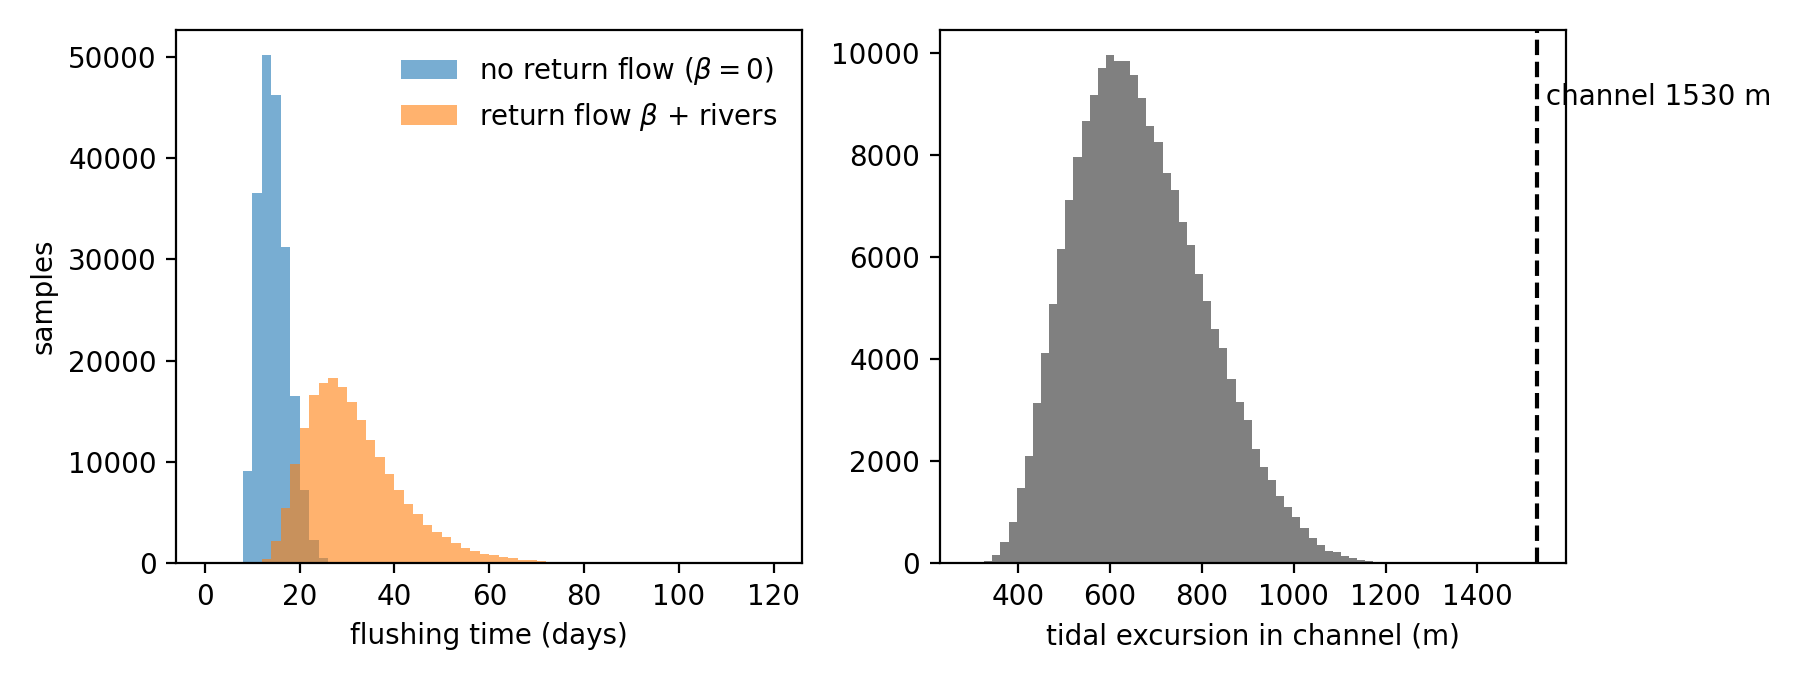
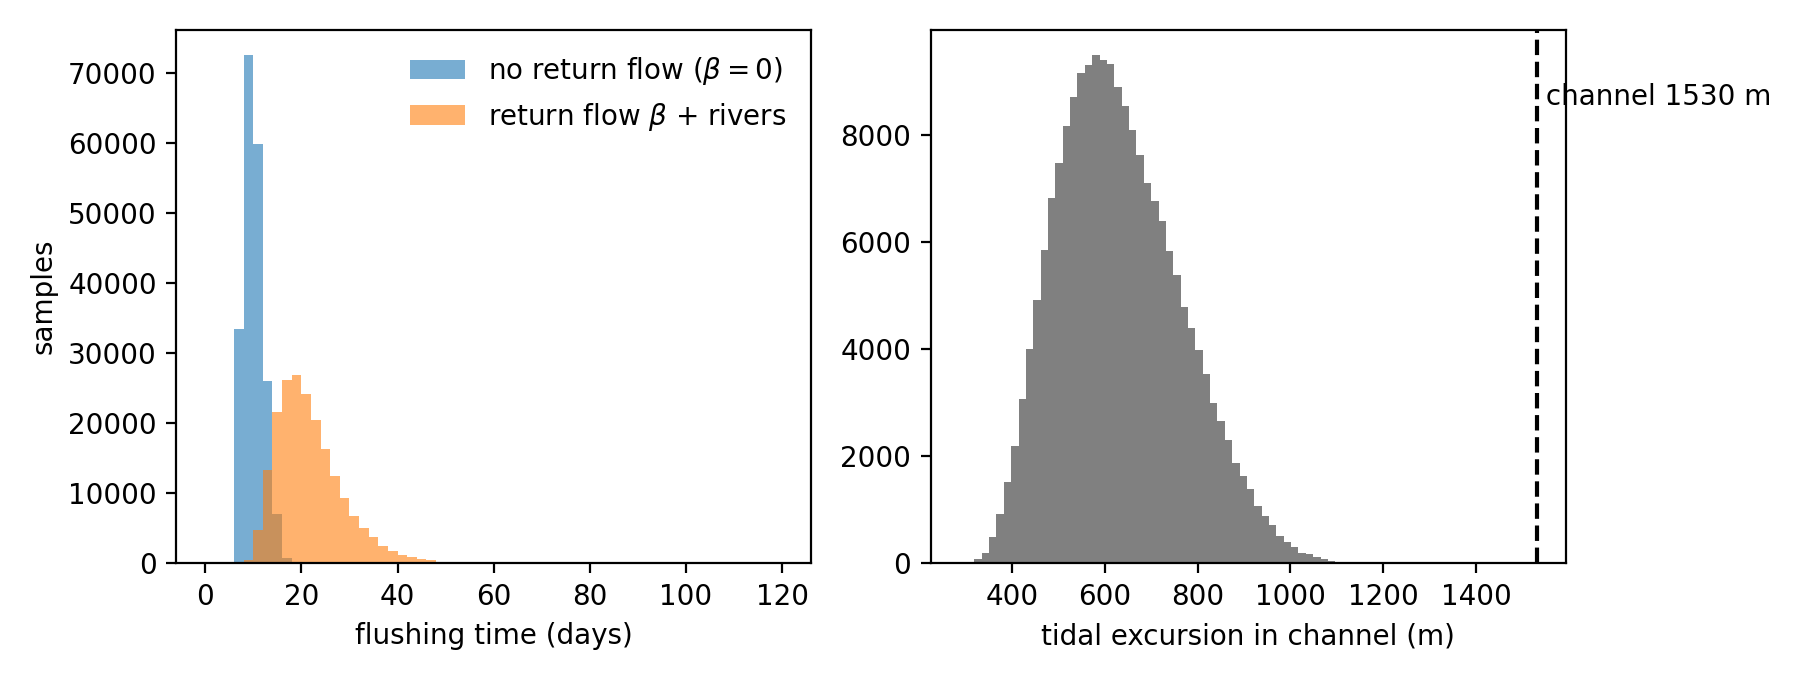
Batimetria del conjunto (estado de dragado + campo aleatorio sigma 0,9 m L 150 m del variograma 1887-1879); prisma de marea con el volumen de las cartas (renovacion 23 d)
Claude-Session: https://claude.ai/code/session_011ZQy6j6faxb4dHyc5rKgZH

diff --git a/scripts/batimetria/08_batimetria_conjunto.py b/scripts/batimetria/08_batimetria_conjunto.py
@@ -1,0 +1,92 @@
+"""Batimetria de un miembro del conjunto a partir de una superficie de carta (salida de 07).
+Dimensiones de incertidumbre (todas documentadas en docs/00_estado_y_plan.md, sec. 19):
+  carta    '1879' | '1887'            superficie base
+  alfa     0..1                       estado de dragado: 0 = carta historica; 1 = zona navegable a D_NAV
+                                      y canal de entrada a D_CANAL (calados de practicos 2018)
+  sigma, L m                          campo aleatorio exponencial (estimado del variograma 1887-1879)
+  datum    m                          desplazamiento del nivel de la carta (bajamar -> nivel medio)
+  semilla                             semilla del campo aleatorio
+Uso: python3 08_batimetria_conjunto.py <dir_superficies> <salida_dir>   (figura + estadisticas de volumen)"""
+import sys, os, json
+import numpy as np
+from scipy.io import netcdf_file
+from scipy import ndimage
+
+D_CANAL, ANCHO_CANAL, LARGO_CANAL, RUMBO_CANAL = 12.8, 220.0, 1530.0, 124.0   # practicos 2018
+CENTRO_CANAL = (361646.0, 2560188.0)  # centroide de las celdas > 11 m del canal (carta 1887), ver 08
+D_NAV, H_NAV = 11.0, 5.0              # calado de los canales de acceso (9,75-11,58 m); umbral de agua navegable historica
+SIGMA, L = 0.9, 150.0                 # m; variograma de la diferencia 1887-1879 (sigma_carta = sqrt(meseta/2))
+PROF_MIN = 0.3
+DEF = dict(carta='1887', alfa=0.0, sigma=SIGMA, L=L, datum=0.0, semilla=0)
+
+def lee(f, v):
+    d = netcdf_file(f, 'r', mmap=False)
+    z = d.variables[v][:].astype(float); z[z == -9999] = np.nan
+    return d.variables['x'][:].copy(), d.variables['y'][:].copy(), z
+
+def bahia(X, Y, h):
+    return np.isfinite(h) & (X > 361000) & (Y < 2560950)
+
+def poligono_canal(X, Y):
+    t = np.radians(RUMBO_CANAL); u = np.array([np.sin(t), np.cos(t)]); n = np.array([u[1], -u[0]])
+    dx, dy = X - CENTRO_CANAL[0], Y - CENTRO_CANAL[1]
+    return (np.abs(dx * u[0] + dy * u[1]) <= LARGO_CANAL / 2) & (np.abs(dx * n[0] + dy * n[1]) <= ANCHO_CANAL / 2)
+
+def campo_aleatorio(shape, dx, sigma, L, semilla):
+    """Campo gaussiano de covarianza exponencial (espectral, con relleno para evitar periodicidad)."""
+    ny, nx = 2 * shape[0], 2 * shape[1]
+    kx = np.fft.fftfreq(nx, dx) * 2 * np.pi; ky = np.fft.fftfreq(ny, dx) * 2 * np.pi
+    K2 = kx[None, :] ** 2 + ky[:, None] ** 2
+    amp = (1 + K2 * L ** 2) ** -0.75          # sqrt de S(k) ~ (1 + k^2 L^2)^(-3/2) en 2D
+    w = np.random.default_rng(semilla).standard_normal((ny, nx))
+    f = np.real(np.fft.ifft2(np.fft.fft2(w) * amp))[:shape[0], :shape[1]]
+    return sigma * f / f.std()
+
+def miembro(dir_sup, **p):
+    p = {**DEF, **p}
+    x, y, h = lee(f"{dir_sup}/batimetria_{p['carta']}.nc", 'profundidad')
+    _, _, w = lee(f"{dir_sup}/batimetria_{p['carta']}.nc", 'peso_carta')
+    X, Y = np.meshgrid(x, y); agua = np.isfinite(h); b = bahia(X, Y, h)
+    canal = poligono_canal(X, Y) & agua
+    lab, _ = ndimage.label(b & (h >= H_NAV) | canal)          # agua navegable conectada al canal
+    nav = np.isin(lab, np.unique(lab[canal & (lab > 0)])) & (lab > 0)
+    obj = np.where(canal, D_CANAL, np.where(nav, D_NAV, 0.0))
+    h = h + p['alfa'] * np.maximum(0, obj - h)
+    eps = campo_aleatorio(h.shape, x[1] - x[0], p['sigma'], p['L'], p['semilla']) if p['sigma'] > 0 else 0
+    fijo = (p['alfa'] > 0) & canal                              # el calado garantizado no se perturba
+    h = h + np.where(fijo, 0, eps * np.nan_to_num(w) * np.clip(np.nan_to_num(h) / 2, 0, 1)) + p['datum']
+    return x, y, np.where(agua, np.maximum(h, PROF_MIN), np.nan), dict(nav=nav, canal=canal, bahia=b)
+
+def volumen(X, Y, h, b):
+    return np.nansum(h[b]) * (X[0, 1] - X[0, 0]) ** 2 / 1e6
+
+if __name__ == '__main__':
+    dsup, sal = sys.argv[1:3]; os.makedirs(sal, exist_ok=True)
+    import matplotlib; matplotlib.use('Agg'); import matplotlib.pyplot as plt
+    x, y, h0, m = miembro(dsup, sigma=0); X, Y = np.meshgrid(x, y)
+    assert abs(m['canal'].sum() * 400 - LARGO_CANAL * ANCHO_CANAL) / (LARGO_CANAL * ANCHO_CANAL) < 0.15, 'poligono del canal'
+    res = {}
+    for carta in ('1879', '1887'):
+        for alfa in (0.0, 0.5, 1.0):
+            v = [volumen(X, Y, miembro(dsup, carta=carta, alfa=alfa, semilla=s)[2], m['bahia']) for s in range(30)]
+            v0 = volumen(X, Y, miembro(dsup, carta=carta, alfa=alfa, sigma=0)[2], m['bahia'])
+            res[f'{carta}_alfa{alfa}'] = dict(vol_sin_ruido_hm3=round(v0, 1), vol_media_hm3=round(float(np.mean(v)), 1),
+                                              vol_p5=round(float(np.percentile(v, 5)), 1), vol_p95=round(float(np.percentile(v, 95)), 1),
+                                              prof_media_m=round(v0 * 1e6 / (m['bahia'].sum() * 400), 2))
+            print(carta, alfa, res[f'{carta}_alfa{alfa}'])
+    json.dump(dict(parametros=dict(D_CANAL=D_CANAL, ANCHO_CANAL=ANCHO_CANAL, RUMBO_CANAL=RUMBO_CANAL, D_NAV=D_NAV, H_NAV=H_NAV,
+                                   SIGMA=SIGMA, L=L), volumenes=res, area_bahia_km2=round(m['bahia'].sum() * 400 / 1e6, 2)),
+              open(f'{sal}/volumenes_conjunto.json', 'w'), indent=1)
+    casos = [('1887, histórica (alfa=0)', dict(sigma=0)), ('1887, dragada (alfa=1)', dict(alfa=1, sigma=0)),
+             ('1887, alfa=0.5 + campo aleatorio (semilla 1)', dict(alfa=0.5, semilla=1))]
+    fig, ax = plt.subplots(1, 4, figsize=(26, 6.5))
+    for a, (t, kw) in zip(ax, casos):
+        im = a.imshow(miembro(dsup, **kw)[2], origin='lower', extent=(x[0], x[-1], y[0], y[-1]), cmap='viridis_r', vmin=0, vmax=15)
+        a.set_title(t); plt.colorbar(im, ax=a, shrink=0.7)
+    e = campo_aleatorio(h0.shape, 20.0, SIGMA, L, 1)
+    im = ax[3].imshow(np.where(m['bahia'], e, np.nan), origin='lower', extent=(x[0], x[-1], y[0], y[-1]), cmap='RdBu', vmin=-2.5, vmax=2.5)
+    ax[3].set_title(f'campo aleatorio sigma={SIGMA} m, L={L:.0f} m'); plt.colorbar(im, ax=ax[3], shrink=0.7)
+    for a in ax:
+        a.contour(X, Y, m['canal'].astype(float), [0.5], colors='r', linewidths=0.8)
+        a.set_xlim(360500, 365500); a.set_ylim(2556300, 2561300); a.set_aspect('equal')
+    fig.tight_layout(); fig.savefig(f'{sal}/batimetria_conjunto.png', dpi=100)

diff --git a/scripts/prisma_marea.py b/scripts/prisma_marea.py
@@ -23,10 +23,13 @@ L_CANAL = 1530.0               # m, longitud del canal de entrada (practicos, Pu
 # Entradas: (caso central, minimo, maximo) y de donde salen
 # ---------------------------------------------------------------------------
 ENTRADAS = {
-    # area de la lamina de agua. 5.2 km2 (fuentes divulgativas). +-10 % hasta digitalizar la carta
-    "A_km2":   (5.2, 4.7, 5.7),
-    # profundidad media. 9 m (fuentes divulgativas; 47 hm3 / 5.2 km2 = 9.0 m, coherente)
-    "h_m":     (9.0, 7.0, 11.0),
+    # area de la lamina de agua: 4.91 km2 con la costa actual de OSM (bahia + canal; 07_superficies.py).
+    # Antes (hasta 13-oct-2026): 5.2 km2 (4.7-5.7) de fuentes divulgativas.
+    "A_km2":   (4.91, 4.7, 5.2),
+    # profundidad media: 5.2 m (carta 1887, sin dragado) a 7.3 m (1879 + dragado a calados de practicos);
+    # moda 6.2 m = estado de dragado intermedio (08_batimetria_conjunto.py, volumenes_conjunto.json).
+    # Antes: 9 m (7-11) de fuentes divulgativas (47 hm3), que las cartas no sostienen (ver docs, sec. 19).
+    "h_m":     (6.2, 5.2, 7.3),
     # rango mareal. Practicos: pleamar superior media 0.4 m, bajamar inferior media 0.1 m
     # -> rango diurno mayor ~0.3 m. Predicciones publicas: 0.3-0.45 m en sicigias.
     "R_m":     (0.30, 0.20, 0.50),

diff --git a/docs/00_estado_y_plan.md b/docs/00_estado_y_plan.md
@@ -513,3 +513,10 @@ Descargado (`datos/batimetria/fuentes/descargas.tsv` con URL, fecha y sha256):
 - `scripts/batimetria/07_superficies.py` (+ `utm.py`, proyección UTM 17N sin dependencias, con autotest): rejilla UTM 17N de 20 m (E 354–368 km, N 2554–2566 km), interpolación lineal de los sondeos + costa a profundidad 0 (triángulos de > 500 m descartados), fusión con GEBCO 2026 a 150–600 m del sondeo más cercano, profundidad mínima 0,3 m. Salidas en `datos/batimetria/superficies/` (NetCDF, fuera de git; se regeneran en segundos) y `docs/figuras/superficies_1879_1887.png`.
 - **Números (bahía = agua al S de N 2 560 950 y al E de E 361 000, incluye el canal):** área 4,91 km²; profundidad media **5,6 m (1879) y 5,2 m (1887)**; volumen **27,5 y 25,7 hm³**. Diferencia 1887 − 1879 celda a celda donde ambas tienen sondeos: media −0,38 m, desviación 1,31 m (p10 −1,7, p90 +0,9).
 - **Ojo — discrepancia con el control analítico:** `prisma_marea.py` usa 9 m de profundidad media y ~47 hm³ (fuentes divulgativas, bahía actual). Las cartas del siglo XIX dan casi la mitad del volumen. La diferencia es plausible (dragados del siglo XX: los prácticos garantizan 9,75–11,58 m en los canales de acceso a Guasabacoa, Atarés, refinería y dique seco, donde 1879 marca 5–9 m), pero el volumen entra directo en el tiempo de renovación. Propuesta: tratar el **estado de dragado** como dimensión del conjunto (de la batimetría histórica a una versión "actual" con canales de acceso y muelles a sus calados de prácticos) y recalcular el prisma con el volumen de las superficies.
+
+**Actualización 13 oct (noche) — batimetría del conjunto y prisma recalculado.**
+- **Canal de entrada comprobado con la costa OSM:** ancho de agua 250–400 m a lo largo de ~1,6 km (prácticos: 220–330 m, 1530 m). El eje de las celdas > 11 m tiene rumbo 131° (prácticos: 124°); se usa el de prácticos por el centroide del canal (361 646 E, 2 560 188 N). En las cartas, la parte > 12 m solo tiene 40–160 m de ancho.
+- **Variograma de la diferencia 1887−1879** (12 134 celdas con sondeos de ambas): exponencial con meseta 1,08 m², alcance L = 149 m, pepita 0,54 m² → **σ_carta = √((meseta+pepita)/2) = 0,9 m, L ≈ 150 m**. Son los parámetros del campo aleatorio, estimados de los datos y no supuestos.
+- `scripts/batimetria/08_batimetria_conjunto.py`: genera la batimetría de cada miembro con (carta 1879/1887, α = estado de dragado 0–1, σ, L, datum, semilla). α = 1: canal de entrada ≥ 12,8 m (220 m × 1530 m, rumbo 124°) y toda el agua navegable histórica (≥ 5 m, conectada al canal) a 11 m (canales de acceso 9,75–11,58 m según prácticos). El campo aleatorio no toca el canal garantizado y se atenúa hacia la orilla. Figura: `docs/figuras/batimetria_conjunto.png`; volúmenes: `datos/batimetria/superficies/volumenes_conjunto.json`.
+- **Volumen de la bahía (hm³):** 1879: 27,5 (α=0) / 31,7 (α=0,5) / 35,8 (α=1); 1887: 25,7 / 29,6 / 33,5. El campo aleatorio solo mueve ±1 hm³ (p5–p95) porque se promedia. **Ni dragando toda la zona navegable a 11 m se llega a los 47 hm³ divulgativos** (haría falta 9,6 m de media en toda la bahía, ensenadas incluidas, incompatible con los calados de prácticos de 1,6–6,7 m en buena parte de los atraques y fondeaderos). La cifra divulgativa no es coherente con las cartas ni con los prácticos.
+- **`prisma_marea.py` actualizado** (A = 4,91 km², h = 5,2–7,3 m, moda 6,2): V 30 hm³ (27–35); renovación ideal 10,7 d (7–14); **con retorno y ríos 23 d (13–35 d)**; antes 34 d (18–51 d). Excursión mareal 610 m (sin cambio, 0,4 del canal). El artículo debe actualizar esta cifra.

diff --git a/docs/resumen_para_articulo.md b/docs/resumen_para_articulo.md
@@ -88,3 +88,6 @@ Enlaces:
 - **1514 sondeos** de la ed. 1898 (levantamientos hasta 1887), registrados automáticamente sobre la de 1889 (SIFT + polinomio, residuo 1,2 m). Dentro de la bahía la ed. 1898 trae un levantamiento nuevo; fuera repite en buena parte el de 1879. Diferencias entre ambas donde hay sondeos vecinos: mediana 0, |Δz| medio 0,76 m dentro de la bahía (p10–p90 −1,4…+0,9 m) → incertidumbre de carta ~1 m (1σ), que justifica el σ del campo aleatorio. Figura: `docs/figuras/control_sondeos_1879_1887.png`.
 - **Superficies 1879 y 1887** (sondeos + costa actual de OSM + GEBCO fuera; UTM 17N, 20 m): bahía de 4,91 km² con profundidad media **5,6 m (1879) / 5,2 m (1887)** y volumen **27,5 / 25,7 hm³**. Diferencia celda a celda 1887−1879: media −0,4 m, desviación 1,3 m. Figura: `docs/figuras/superficies_1879_1887.png`.
 - **Discrepancia a discutir:** el control analítico usaba 9 m y ~47 hm³ (fuentes divulgativas sobre la bahía actual). Las cartas históricas dan ~55 % de ese volumen; la diferencia es coherente con los dragados del siglo XX (canales de acceso a 9,75–11,58 m según prácticos). Propuesta: "estado de dragado" como dimensión del conjunto, de la batimetría histórica a una versión actual con los calados de prácticos.
+- **Parámetros del campo aleatorio estimados de los datos** (variograma de la diferencia 1887−1879): σ_carta = 0,9 m, longitud de correlación 150 m (exponencial).
+- **Estado de dragado como dimensión del conjunto** (α 0–1: de la carta tal cual a canal ≥ 12,8 m y zona navegable a 11 m, calados de prácticos): volumen 26–36 hm³. Ni el extremo dragado llega a los 47 hm³ divulgativos → esa cifra no es coherente con cartas ni prácticos.
+- **Control analítico recalculado** (`prisma_marea.py`, A = 4,91 km², h = 5,2–7,3 m): tiempo de renovación con retorno y ríos **23 d (p5–p95 13–35 d)**, antes 34 d (18–51 d); renovación ideal 10,7 d (7–14). Excursión mareal ~610 m (0,4 de la longitud del canal), sin cambio. **Hay que actualizar la cifra en el artículo.**
